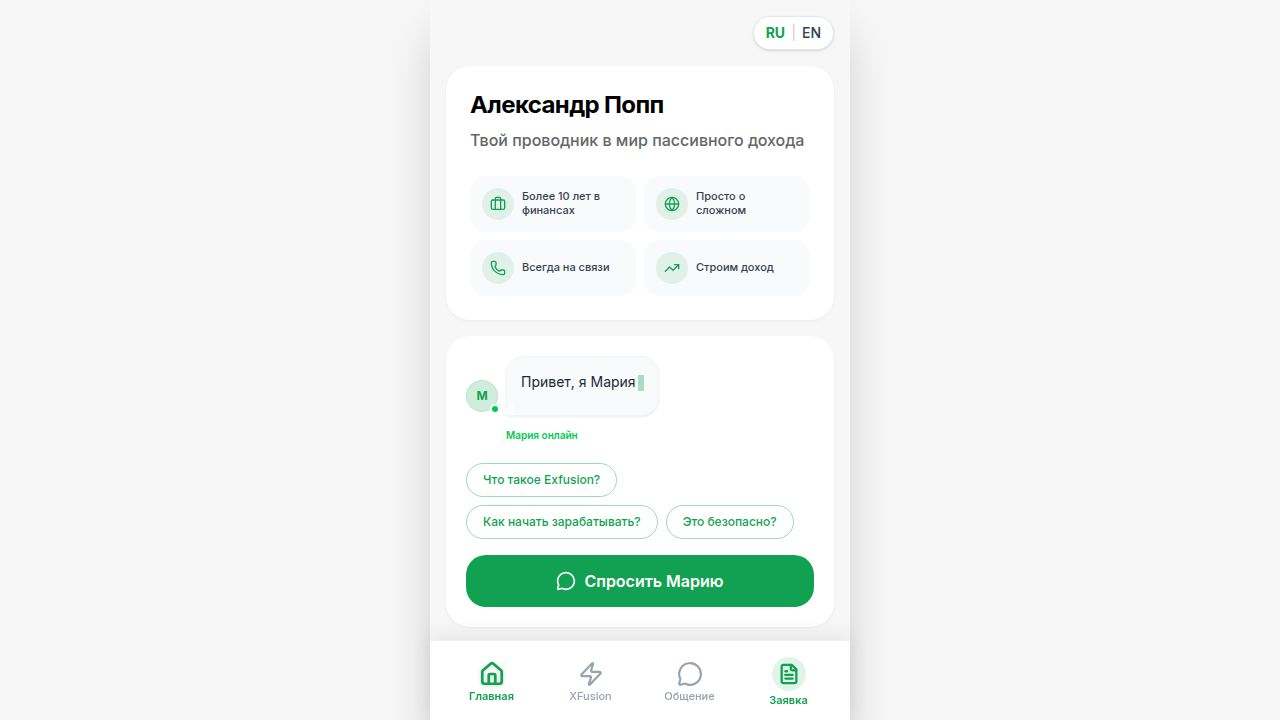
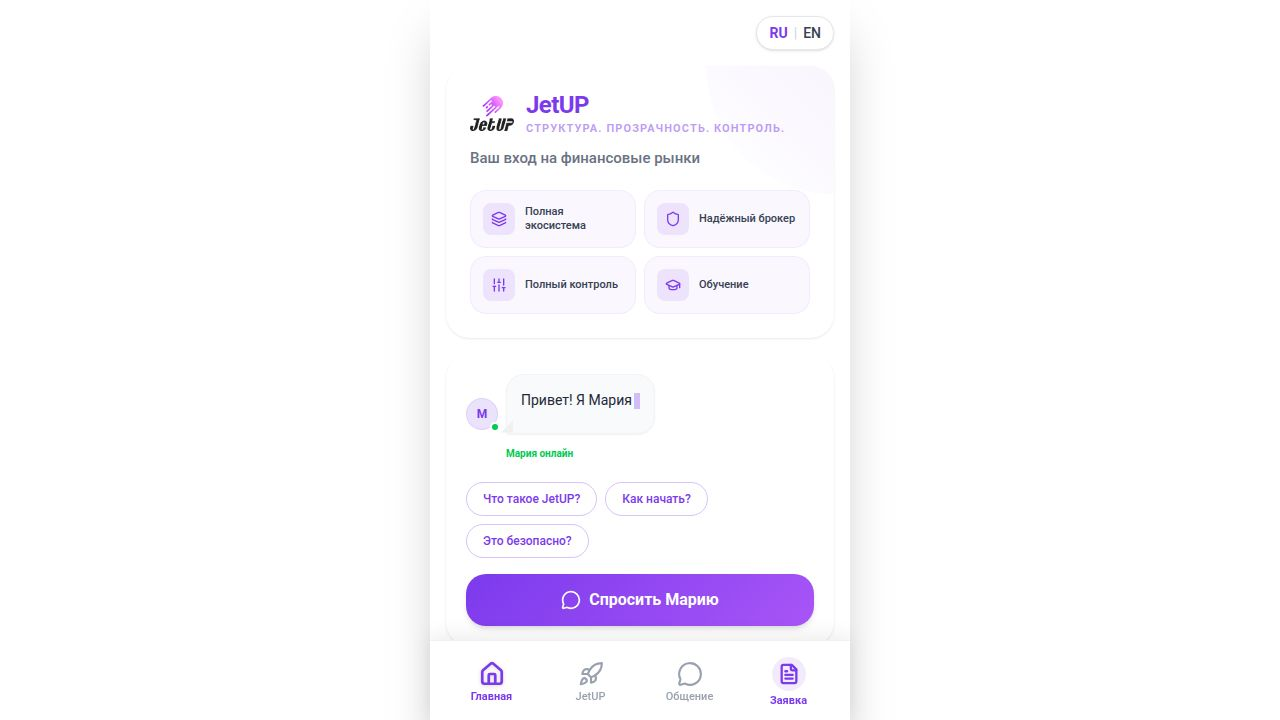
Refine tab bar and homepage layout for a cleaner user interface
Update TabBar component with improved styling, spacing, and icon sizes. Refactor HomePage layout, including hero section and feature cards, for better visual appeal and consistency. Adjust background colors and gradients in CSS.

Replit-Commit-Author: Agent
Replit-Commit-Session-Id: 2e2d1746-d870-4e06-adc8-77998e8f8c7a
Replit-Commit-Checkpoint-Type: intermediate_checkpoint
Replit-Commit-Event-Id: d90801c7-fae9-4961-8e11-37cef2dcbc1e
Replit-Commit-Screenshot-Url: https://storage.googleapis.com/screenshot-production-us-central1/187720fa-c7d1-4b80-a0d5-2edf95695724/2e2d1746-d870-4e06-adc8-77998e8f8c7a/7G6sWPh
Replit-Helium-Checkpoint-Created: true

diff --git a/client/src/pages/HomePage.tsx b/client/src/pages/HomePage.tsx
@@ -1,6 +1,5 @@
 import React, { useState, useEffect } from "react";
 import { motion } from "framer-motion";
-import { Card } from "@/components/ui/card";
 import { Layers, Shield, Sliders, GraduationCap, MessageCircle } from "lucide-react";
 import { useLocation } from "wouter";
 import { useLanguage, Language } from "@/contexts/LanguageContext";
@@ -43,126 +42,111 @@ const HomePage: React.FC = () => {
     setLanguage(language === 'ru' ? 'en' : 'ru');
   };
 
+  const features = [
+    { icon: Layers, label: t('home.ecosystem') },
+    { icon: Shield, label: t('home.broker') },
+    { icon: Sliders, label: t('home.control') },
+    { icon: GraduationCap, label: t('home.education') },
+  ];
+
   return (
-    <div className="p-4 pb-24 space-y-4">
+    <div className="px-5 pt-4 pb-28 space-y-5">
       <div className="flex justify-end">
         <button
           onClick={toggleLanguage}
-          className="flex items-center gap-1.5 px-3 py-1.5 bg-white border border-gray-200 rounded-full text-sm font-medium text-gray-700 hover:bg-gray-50 transition-colors shadow-sm"
+          className="flex items-center gap-2 px-3.5 py-1.5 bg-white border border-gray-200 rounded-full text-sm font-medium text-gray-600 hover:bg-gray-50 transition-colors shadow-sm"
           data-testid="language-toggle"
         >
-          <span className={language === 'ru' ? 'font-bold text-primary' : ''}>RU</span>
-          <span className="text-gray-300">|</span>
-          <span className={language === 'en' ? 'font-bold text-primary' : ''}>EN</span>
+          <span className={language === 'ru' ? 'font-bold text-primary' : 'text-gray-400'}>RU</span>
+          <span className="text-gray-200">|</span>
+          <span className={language === 'en' ? 'font-bold text-primary' : 'text-gray-400'}>EN</span>
         </button>
       </div>
 
-      <motion.div 
+      <motion.div
         initial={{ opacity: 0, y: -10 }}
         animate={{ opacity: 1, y: 0 }}
+        className="bg-white rounded-[24px] p-6 shadow-[0_2px_12px_rgba(0,0,0,0.06)]"
       >
-        <Card className="border-0 card-elevated bg-white p-6 rounded-3xl overflow-hidden relative">
-          <div className="absolute top-0 right-0 w-32 h-32 bg-gradient-to-bl from-primary/5 to-transparent rounded-bl-full" />
-          <div className="space-y-5 relative">
-            <div className="space-y-2">
-              <div className="flex items-center gap-3">
-                <div className="w-11 h-11 rounded-xl flex items-center justify-center">
-                  <img src="/jetup-logo.png" alt="JetUP" className="w-11 h-11 object-contain" />
-                </div>
-                <div>
-                  <h1 className="text-2xl font-bold leading-tight tracking-tight text-primary">{t('home.title')}</h1>
-                  <p className="text-[11px] font-semibold tracking-widest uppercase text-primary/50">{t('home.tagline')}</p>
-                </div>
-              </div>
-              <p className="text-[15px] font-medium text-gray-500 mt-2">{t('home.subtitle')}</p>
-            </div>
-
-            <div className="grid grid-cols-2 gap-2">
-              <div className="flex items-center gap-2.5 p-3 bg-primary/[0.04] rounded-xl border border-primary/[0.06]">
-                <div className="w-8 h-8 rounded-lg bg-primary/10 flex items-center justify-center flex-shrink-0">
-                  <Layers className="w-4 h-4 text-primary" />
-                </div>
-                <p className="text-[11px] font-medium text-gray-700 leading-tight">{t('home.ecosystem')}</p>
-              </div>
-
-              <div className="flex items-center gap-2.5 p-3 bg-primary/[0.04] rounded-xl border border-primary/[0.06]">
-                <div className="w-8 h-8 rounded-lg bg-primary/10 flex items-center justify-center flex-shrink-0">
-                  <Shield className="w-4 h-4 text-primary" />
-                </div>
-                <p className="text-[11px] font-medium text-gray-700 leading-tight">{t('home.broker')}</p>
-              </div>
-
-              <div className="flex items-center gap-2.5 p-3 bg-primary/[0.04] rounded-xl border border-primary/[0.06]">
-                <div className="w-8 h-8 rounded-lg bg-primary/10 flex items-center justify-center flex-shrink-0">
-                  <Sliders className="w-4 h-4 text-primary" />
-                </div>
-                <p className="text-[11px] font-medium text-gray-700 leading-tight">{t('home.control')}</p>
-              </div>
-
-              <div className="flex items-center gap-2.5 p-3 bg-primary/[0.04] rounded-xl border border-primary/[0.06]">
-                <div className="w-8 h-8 rounded-lg bg-primary/10 flex items-center justify-center flex-shrink-0">
-                  <GraduationCap className="w-4 h-4 text-primary" />
-                </div>
-                <p className="text-[11px] font-medium text-gray-700 leading-tight">{t('home.education')}</p>
-              </div>
-            </div>
+        <div className="flex items-center gap-4 mb-4">
+          <img src="/jetup-logo.png" alt="JetUP" className="w-12 h-12 object-contain" />
+          <div>
+            <h1 className="text-[22px] font-bold leading-tight text-primary tracking-tight">JetUP</h1>
+            <p className="text-[10px] font-semibold tracking-[0.2em] uppercase text-primary/40 mt-0.5">
+              {t('home.tagline')}
+            </p>
           </div>
-        </Card>
+        </div>
+
+        <p className="text-[15px] font-medium text-gray-500 mb-5 leading-snug">
+          {t('home.subtitle')}
+        </p>
+
+        <div className="grid grid-cols-2 gap-3">
+          {features.map((feat, idx) => (
+            <div
+              key={idx}
+              className="flex items-center gap-3 p-3.5 bg-primary/[0.03] rounded-2xl border border-primary/[0.08]"
+            >
+              <div className="w-9 h-9 rounded-xl bg-primary/10 flex items-center justify-center flex-shrink-0">
+                <feat.icon className="w-[18px] h-[18px] text-primary" />
+              </div>
+              <p className="text-[12px] font-semibold text-gray-700 leading-tight">{feat.label}</p>
+            </div>
+          ))}
+        </div>
       </motion.div>
 
-      <motion.div 
+      <motion.div
         initial={{ opacity: 0, y: 10 }}
         animate={{ opacity: 1, y: 0 }}
         transition={{ delay: 0.1 }}
+        className="bg-white rounded-[24px] p-5 shadow-[0_2px_12px_rgba(0,0,0,0.06)]"
       >
-        <Card className="border-0 card-elevated bg-white p-5 rounded-3xl">
-          <div className="space-y-4">
-            <div className="space-y-3">
-              <div className="flex items-end gap-2">
-                <div className="relative flex-shrink-0 mb-1">
-                  <div className="w-8 h-8 rounded-full bg-primary/15 flex items-center justify-center border border-primary/10">
-                    <span className="text-xs font-bold text-primary">M</span>
-                  </div>
-                  <div className="absolute -right-0.5 -bottom-0.5 w-2.5 h-2.5 bg-green-500 border-2 border-white rounded-full" />
-                </div>
-                <div className="chat-bubble chat-bubble-incoming !max-w-[85%] !p-3.5 !bg-gray-50 border border-gray-100 min-h-[60px]">
-                  <p className="text-[14px] text-gray-800 leading-relaxed">
-                    {displayText}
-                    {displayText.length < fullText.length && (
-                      <span className="inline-block w-1.5 h-4 ml-0.5 bg-primary/50 animate-pulse align-middle" />
-                    )}
-                  </p>
-                </div>
-              </div>
-              
-              <div className="flex items-center gap-2 ml-10">
-                <span className="text-[10px] font-semibold text-green-500">{t('home.mariaOnline')}</span>
-              </div>
+        <div className="flex items-start gap-3 mb-4">
+          <div className="relative flex-shrink-0 mt-0.5">
+            <div className="w-10 h-10 rounded-full bg-gradient-to-br from-primary/20 to-primary/10 flex items-center justify-center border border-primary/10">
+              <span className="text-sm font-bold text-primary">M</span>
             </div>
-
-            <div className="flex flex-wrap gap-2 pt-1">
-              {quickReplies.map((question) => (
-                <button
-                  key={question}
-                  onClick={() => handleQuickReply(question)}
-                  className="px-4 py-2 text-xs font-medium bg-transparent border border-primary/30 text-primary rounded-full hover:bg-primary/5 transition-colors active:scale-95"
-                  data-testid={`quick-reply-${question.slice(0, 10)}`}
-                >
-                  {question}
-                </button>
-              ))}
-            </div>
-
-            <button
-              onClick={goToMaria}
-              className="w-full py-3.5 text-base font-semibold text-white rounded-2xl transition-all active:scale-[0.98] flex items-center justify-center gap-2 jetup-gradient shadow-md"
-              data-testid="cta-ask-maria"
-            >
-              <MessageCircle className="w-5 h-5" />
-              {t('home.askMaria')}
-            </button>
+            <div className="absolute -right-0.5 -bottom-0.5 w-3 h-3 bg-green-500 border-[2.5px] border-white rounded-full" />
           </div>
-        </Card>
+
+          <div className="flex-1 min-w-0">
+            <div className="bg-gray-50 border border-gray-100 rounded-2xl rounded-tl-md px-4 py-3">
+              <p className="text-[14px] text-gray-800 leading-relaxed">
+                {displayText}
+                {displayText.length < fullText.length && (
+                  <span className="inline-block w-[3px] h-[16px] ml-0.5 bg-primary/40 animate-pulse align-middle rounded-full" />
+                )}
+              </p>
+            </div>
+            <span className="text-[11px] font-medium text-green-500 mt-1.5 block ml-1">
+              {t('home.mariaOnline')}
+            </span>
+          </div>
+        </div>
+
+        <div className="flex flex-wrap gap-2 mb-4">
+          {quickReplies.map((question) => (
+            <button
+              key={question}
+              onClick={() => handleQuickReply(question)}
+              className="px-3.5 py-2 text-[12px] font-medium bg-transparent border border-primary/25 text-primary rounded-full hover:bg-primary/5 transition-colors active:scale-95"
+              data-testid={`quick-reply-${question.slice(0, 10)}`}
+            >
+              {question}
+            </button>
+          ))}
+        </div>
+
+        <button
+          onClick={goToMaria}
+          className="w-full py-3.5 text-[15px] font-semibold text-white rounded-2xl transition-all active:scale-[0.98] flex items-center justify-center gap-2.5 jetup-gradient shadow-[0_4px_16px_rgba(124,58,237,0.25)]"
+          data-testid="cta-ask-maria"
+        >
+          <MessageCircle className="w-[18px] h-[18px]" />
+          {t('home.askMaria')}
+        </button>
       </motion.div>
     </div>
   );

diff --git a/client/src/components/TabBar.tsx b/client/src/components/TabBar.tsx
@@ -20,9 +20,8 @@ const TabBar: React.FC<TabBarProps> = ({ currentPath, onNavigate, onOpenApplicat
 
   return (
     <div className="fixed bottom-0 left-0 right-0 z-50 flex justify-center pointer-events-none">
-      <div className="w-full max-w-[420px] bg-white/95 dark:bg-black/95 backdrop-blur-lg border-t border-gray-200/60 pb-[env(safe-area-inset-bottom)] pointer-events-auto shadow-[0_-4px_20px_rgba(0,0,0,0.08)]">
-        <div className="flex items-center justify-between px-3 pt-2.5 pb-2 relative">
-          
+      <div className="w-full max-w-[420px] bg-white/95 backdrop-blur-xl border-t border-gray-100 pb-[env(safe-area-inset-bottom)] pointer-events-auto">
+        <div className="flex items-center justify-around px-2 pt-2 pb-1.5">
           {tabs.map((tab) => {
             const isActive = currentPath === tab.path;
             return (
@@ -30,24 +29,21 @@ const TabBar: React.FC<TabBarProps> = ({ currentPath, onNavigate, onOpenApplicat
                 key={tab.id}
                 onClick={() => onNavigate(tab.path)}
                 className={cn(
-                  "flex flex-col items-center justify-center flex-1 py-1.5 gap-1 transition-all duration-200 active:scale-95",
+                  "flex flex-col items-center justify-center py-1 gap-1 transition-all duration-200 active:scale-95 min-w-[64px]",
                   isActive 
                     ? "text-primary" 
-                    : "text-gray-400 hover:text-gray-600"
+                    : "text-gray-400 hover:text-gray-500"
                 )}
                 data-testid={`tab-${tab.id}`}
               >
                 <tab.icon 
-                  size={26} 
-                  strokeWidth={isActive ? 2.5 : 2} 
-                  className={cn(
-                    "transition-colors",
-                    isActive && "drop-shadow-sm"
-                  )}
+                  size={24} 
+                  strokeWidth={isActive ? 2.5 : 1.8} 
+                  className="transition-colors"
                 />
                 <span className={cn(
-                  "text-[11px] font-medium leading-none transition-colors",
-                  isActive && "font-semibold"
+                  "text-[10px] leading-none transition-colors",
+                  isActive ? "font-semibold text-primary" : "font-medium text-gray-400"
                 )}>
                   {t(tab.labelKey)}
                 </span>
@@ -57,13 +53,20 @@ const TabBar: React.FC<TabBarProps> = ({ currentPath, onNavigate, onOpenApplicat
           
           <button
             onClick={onOpenApplication}
-            className="flex flex-col items-center justify-center flex-1 py-1.5 gap-1 text-gray-400 hover:text-primary transition-all active:scale-95"
+            className={cn(
+              "flex flex-col items-center justify-center py-1 gap-1 transition-all duration-200 active:scale-95 min-w-[64px]",
+              "text-gray-400 hover:text-gray-500"
+            )}
             data-testid="tab-application"
           >
-            <div className="p-1.5 rounded-full" style={{ backgroundColor: 'rgba(124, 58, 237, 0.1)' }}>
-              <FileText size={22} className="text-primary" strokeWidth={2.5} />
-            </div>
-            <span className="text-[11px] font-semibold leading-none text-primary">{t('nav.application')}</span>
+            <FileText 
+              size={24} 
+              strokeWidth={1.8}
+              className="transition-colors"
+            />
+            <span className="text-[10px] font-medium leading-none text-gray-400">
+              {t('nav.application')}
+            </span>
           </button>
         </div>
       </div>

diff --git a/client/src/index.css b/client/src/index.css
@@ -21,7 +21,7 @@
 }
 
 :root {
-  --tg-theme-bg-color: #FFFFFF;
+  --tg-theme-bg-color: #F8F8FA;
   --tg-theme-text-color: #1F2937;
   --tg-theme-hint-color: #4B5563;
   --tg-theme-link-color: #7C3AED;
@@ -44,6 +44,7 @@ body {
   @apply font-sans antialiased bg-background text-foreground;
   overscroll-behavior-y: none;
   -webkit-font-smoothing: antialiased;
+  -moz-osx-font-smoothing: grayscale;
   line-height: 1.6;
 }
 
@@ -69,11 +70,15 @@ body {
 }
 
 .safe-bottom {
-  padding-bottom: calc(80px + env(safe-area-inset-bottom));
+  padding-bottom: calc(72px + env(safe-area-inset-bottom));
+}
+
+.safe-area-bottom {
+  padding-bottom: env(safe-area-inset-bottom);
 }
 
 .card-elevated {
-  box-shadow: 0 1px 3px rgba(0, 0, 0, 0.06), 0 1px 2px rgba(0, 0, 0, 0.04);
+  box-shadow: 0 2px 12px rgba(0, 0, 0, 0.06);
 }
 
 .chat-bubble {
@@ -102,5 +107,5 @@ body {
 }
 
 .jetup-gradient {
-  background: linear-gradient(135deg, #7C3AED 0%, #A855F7 100%);
+  background: linear-gradient(135deg, #7C3AED 0%, #9333EA 50%, #A855F7 100%);
 }
